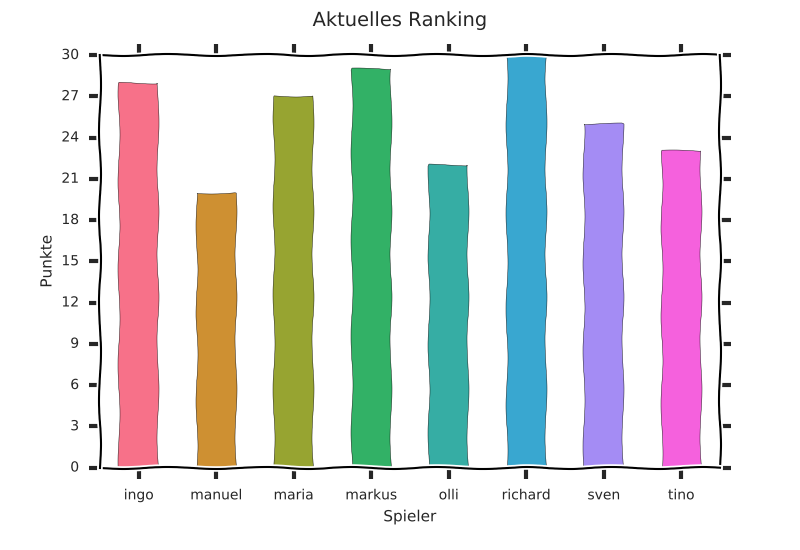
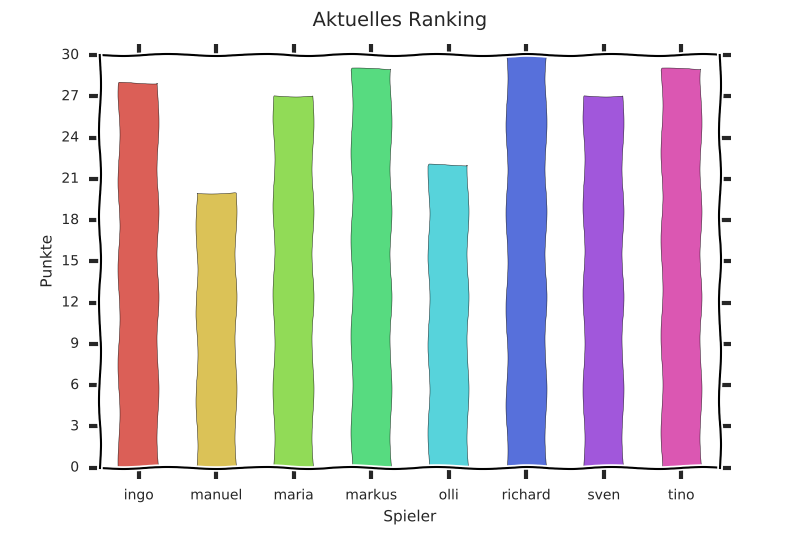
neue standings

diff --git a/index.html b/index.html
@@ -3,6 +3,7 @@
 <link rel="stylesheet" href="style.css">
 <h2>Ranking</h2><br><br><img src = "standings.png" > </img>
 <img src = "standings_vs_time.png" > </img>
+<img src = "standings_vs_time_mean.png" > </img>
 <h2>Nächste Tipps</h2><br><br><table border="1" class="dataframe">
   <thead>
     <tr style="text-align: left;">
@@ -19,18 +20,6 @@
     </tr>
   </thead>
   <tbody>
-    <tr>
-      <th style="min-width: 60;">2016-06-25 21:00:00</th>
-      <th style="min-width: 60;">Kroatien - Portugal</th>
-      <td>1 - 1</td>
-      <td>1 - 0</td>
-      <td>2 - 1</td>
-      <td>3 - 1</td>
-      <td>1 - 0</td>
-      <td>1 - 0</td>
-      <td>1 - 2</td>
-      <td>0 - 1</td>
-    </tr>
     <tr>
       <th style="min-width: 60;">2016-06-26 15:00:00</th>
       <th style="min-width: 60;">Frankreich - Irland</th>

diff --git a/tippspiel.py b/tippspiel.py
@@ -132,7 +132,7 @@ def update_plots(df):
     plt.xkcd()
 
     series = plotdf.sum()
-    colors = sns.color_palette("husl", len(series))
+    colors = sns.color_palette("hls", len(series))
     ax = series.plot(kind="bar", rot=0, sort_columns=True, color=colors)
     ax.yaxis.set_major_locator(ticker.MaxNLocator(integer=True))
     fig = ax.get_figure()
@@ -144,11 +144,11 @@ def update_plots(df):
 
     plotdf = plotdf.dropna()
     index = plotdf.index.get_level_values(0)
-    ax = plotdf.cumsum().plot(x=index, stacked=False, sort_columns=True, rot=0, color=colors)
+
+    ax = plotdf.cumsum().plot(x=index, sort_columns=True, rot=0, color=colors)
     date1 = datetime.datetime(2016, 6, 10)
     date2 = datetime.datetime(2016, 7, 11)
     ax.xaxis.set_major_formatter(dates.DateFormatter('%d.%m'))
-    ax.set_ylim([0, 1.1 * max(series)])
     ax.set_xlim(date1, date2)
     ax.yaxis.set_major_locator(ticker.MaxNLocator(integer=True))
 
@@ -160,12 +160,28 @@ def update_plots(df):
     fig.savefig("standings_vs_time.png")
 
 
+    df = plotdf.cumsum()
+    df = (df.T - df.mean(axis=1)).T
+    ax = df.plot(x=index, sort_columns=True, rot=0, color=colors)
+    ax.xaxis.set_major_formatter(dates.DateFormatter('%d.%m'))
+    ax.set_xlim(date1, date2)
+    ax.yaxis.set_major_locator(ticker.MaxNLocator(integer=True))
+    ax.plot([date1, date2], [0, 0], '-', color = '0.75', lw='1')
+    fig = ax.get_figure()
+    fig.suptitle("relative Punkte")
+    plt.xlabel("Datum")
+    plt.ylabel("Abweichung vom Mittelwert")
+    fig.subplots_adjust(bottom=0.15)
+    fig.savefig("standings_vs_time_mean.png")
+
+
 def update_indexhtml(df):
     lines = ["""<meta charset="UTF-8">""",
              """<link rel="stylesheet" href="style.css">""",
              """<h2>Ranking</h2><br><br>"""
              """<img src = "standings.png" > </img>""",
              """<img src = "standings_vs_time.png" > </img>""",
+             """<img src = "standings_vs_time_mean.png" > </img>""",
              """<h2>Nächste Tipps</h2><br><br>"""]
 
     def formatter(field):
